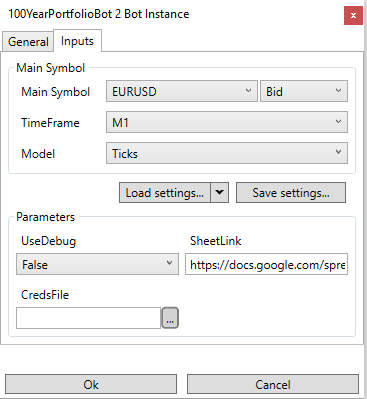
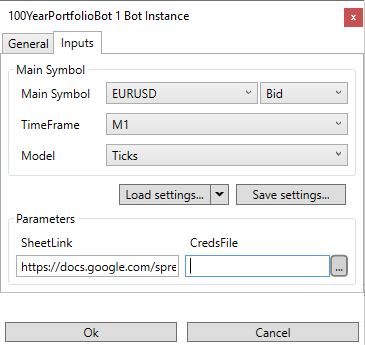
TTALGO-2025: Readme file has been uploaded

Changed region(s): [[0.0, 0.0, 1.0, 1.0], [0.0603, 0.3478, 0.211, 0.4058], [0.0603, 0.4348, 0.1507, 0.4638]]

diff --git a/100YearPortfolio/Symbols/MarketSymbol.cs b/100YearPortfolio/Symbols/MarketSymbol.cs
@@ -44,6 +44,8 @@ namespace _100YearPortfolio
 
         private double ActualMoney => _bot.CalculationBalance * Percent;
 
+        private double MinLotSize => Symbol.MinTradeVolume;
+
 
         public MarketSymbol(PortfolioBot bot, string aliasName, double percent, NoteSettings settings)
         {
@@ -57,8 +59,8 @@ namespace _100YearPortfolio
 
             if (!Symbol.IsNull)
             {
-                if (MaxLotSize.Lt(Symbol.MinTradeVolume))
-                    _error = $"{nameof(MaxLotSize)} less than MinTradeVolume = {Symbol.MinTradeVolume}!";
+                if (MaxLotSize.Lt(MinLotSize))
+                    _error = $"{nameof(MaxLotSize)} less than MinTradeVolume = {MinLotSize}!";
                 else
                     Symbol.Subscribe();
             }
@@ -81,7 +83,7 @@ namespace _100YearPortfolio
             var deltaMoney = ActualMoney - used;
             var deltaPercent = Percent - used / _bot.CalculationBalance;
 
-            var openVolume = CalculateOpenVolume(deltaMoney, deltaMoney > 0 ? bid : ask);
+            var openVolume = CalculateVolume(deltaMoney, deltaMoney > 0 ? bid : ask);
 
             _sb.Clear()
                .Append($"{Alias}{(Alias != OriginName ? $"({OriginName})" : "")} - ")
@@ -107,59 +109,35 @@ namespace _100YearPortfolio
             await OpenOrderChain(expectedMoney, expectedMoney > 0 ? bid : ask);
         }
 
-        private async Task OpenOrderChain(double money, double price)
+        private Task OpenOrderChain(double money, double price)
         {
-            var expectedVolume = Math.Min(CalculateOpenVolume(Math.Abs(money), price), MaxLotSize).Round(Symbol.TradeVolumeStep);
+            var expectedVolume = Math.Min(CalculateVolume(Math.Abs(money), price), MaxLotSize).Round(Symbol.TradeVolumeStep);
             var expectedSide = money.Gte(0.0) ? OrderSide.Buy : OrderSide.Sell;
 
-            _bot.Print($"{OriginName} expected volume = {expectedVolume:F8}, min volume = {Symbol.MinTradeVolume}");
-            _bot.Print($"{OriginName} try open = {expectedVolume.Gte(Symbol.MinTradeVolume)}");
+            _bot.Print($"{OriginName} expected volume = {expectedVolume:F8}, min volume = {MinLotSize}");
+            _bot.Print($"{OriginName} try open = {expectedVolume.Gte(MinLotSize)}");
 
-            if (expectedVolume.Gte(Symbol.MinTradeVolume))
-            {
-                expectedVolume = Math.Min(expectedVolume, Symbol.MaxTradeVolume);
-
-                var attempt = 0;
-
-                while (++attempt < MaxRejectAttempts)
-                {
-                    var res = await _bot.OpenOrderAsync(BuildRequest(expectedVolume, price, expectedSide));
-
-                    if (res.IsCompleted)
-                        break;
-                    else
-                        await _bot.Delay(DelayBetweenFailedRequests);
-                }
-            }
+            return expectedVolume.Gte(MinLotSize) ?
+                   ExecuteRequest(() => _bot.OpenOrderAsync(BuildRequest(expectedVolume, price, expectedSide))) :
+                   Task.CompletedTask;
         }
 
         private Task CancelOrderChain()
         {
-            async Task Cancel(Order order)
-            {
-                var attempt = 0;
-
-                while (++attempt < MaxRejectAttempts)
-                {
-                    var res = await _bot.CancelOrderAsync(order.Id);
-
-                    if (res.IsCompleted)
-                        return;
-                    else
-                        await _bot.Delay(DelayBetweenFailedRequests);
-                }
-            }
-
             var orders = Account.OrdersBySymbol(OriginName);
             var cancelTasks = new List<Task>(orders.Count);
 
             foreach (var order in orders)
-                cancelTasks.Add(Cancel(order));
+            {
+                var orderId = order.Id;
+
+                cancelTasks.Add(ExecuteRequest(() => _bot.CancelOrderAsync(orderId)));
+            }
 
             return Task.WhenAll(cancelTasks);
         }
 
-        private double CalculateOpenVolume(double money, double price)
+        private double CalculateVolume(double money, double price)
         {
             return money / (price * Symbol.ContractSize);
         }
@@ -179,11 +157,26 @@ namespace _100YearPortfolio
             return money * Symbol.ContractSize;
         }
 
+        private async Task ExecuteRequest(Func<Task<OrderCmdResult>> request)
+        {
+            var attempt = 0;
+
+            while (++attempt < MaxRejectAttempts)
+            {
+                var res = await request();
+
+                if (res.IsCompleted)
+                    return;
+                else
+                    await _bot.Delay(DelayBetweenFailedRequests);
+            }
+        }
+
         private OpenOrderRequest BuildRequest(double volume, double price, OrderSide side)
         {
             return OpenOrderRequest.Template.Create()
                                    .WithParams(OriginName, side, BaseType, volume, price, null)
-                                   .WithExpiration(_bot.UtcNow.AddHours(_bot.Config.UpdateMinutes + 1))
+                                   .WithExpiration(_bot.UtcNow.AddMinutes(_bot.Config.UpdateMinutes + 1))
                                    .MakeRequest();
         }
     }

diff --git a/100YearPortfolio/Clients/HttpSheetClient.cs b/100YearPortfolio/Clients/HttpSheetClient.cs
@@ -21,7 +21,14 @@ namespace _100YearPortfolio.Clients
             {
                 using var reader = response.Content.ReadAsStream();
 
-                _book = new XLWorkbook(reader);
+                try
+                {
+                    _book = new XLWorkbook(reader);
+                }
+                catch
+                {
+                    throw new Exception("Can't parse file data. Please check the link permissions.");
+                }
             }
         }
 

diff --git a/100YearPortfolio/Portfolio/PortfolioReader.cs b/100YearPortfolio/Portfolio/PortfolioReader.cs
@@ -6,7 +6,7 @@ namespace _100YearPortfolio
 {
     internal sealed class PortfolioReader
     {
-        private const string SymbolNameHeader = "Symbol";
+        private const string SymbolNameHeader = "Name";
         private const string PercentNameHeader = "Distribution";
         private const string MaxLotSizeHeader = "MaxLotSize";
         private const string OriginSymbolHeader = "Symbol";

diff --git a/100YearPortfolio/README.md b/100YearPortfolio/README.md
@@ -15,6 +15,7 @@ Template for Google Sheet Configuration is here (ссылка)
 
 Guide how to create Google Sheet and setup it is here (ссылка)
 
+If you want to use all features you need to create test google account. Guide you can find here (ссылка).
 
 ## Connect to Configuration sheet
 First of all you need to create a connection to Configuration before running a bot.
@@ -25,13 +26,10 @@ Setup window looks like this:
 
 ### Parameters
 
-#### **IsDebug**
-Defines whether the bot will do specific actions(for ex. additional logging) which are not required during normal usage. Bool parameter. Possible values: true or false.
-
 #### **SheetLink**
 This is link to your Configuration sheet. String parameter.
 
-#### **CredsFile**
+#### **CredsFile (optional)**
 Path to credentials file on your computer. It is nessesary for update *Status* page on Configuration sheet in real time mode. (for more information read here (ссылка)). String parameter.
 
 
@@ -43,62 +41,67 @@ The main settings responsible for a bot logic.
 ### Parameters
 
 #### **Once Per N min**
-This is a time after whitch a bot recalculates orders. Integer parameter. Should be greater than 0.
-
-#### **Status Update Timeout (sec)**
-This is a time after whitch a bot refreshes *Status*. Integer parameter. Should be greater than 0.
+A time after which a bot recalculates orders. Integer parameter. Should be greater than 0.
 
 #### **Balance Type**
 Specifies what is the balance for percentage calculation. Enum parameter. Possible values: Balance or Equity.
 
 #### **Equity Min Lvl**
-Protection against critical loss of money. Specifies the maximum possible change in equity as a percentage of a last starting point. Double percent parameter (can be written as 10 or 10%).
+Protection against critical loss of money. Specifies the maximum possible change in equity as a percentage of a last starting point. Double percent parameter (must end with %).
 
 #### **Equity Update Time (sec)**
 Protection against critical loss of money. Specifies a period of time which the starting point of equity will be updated. Integer parameter. Should be greater than 1.
 
-#### **Default Max Lots Sum**
-Default maximum volume amount that can be opened by Symbol. Double value. Should be greater than 0.
+#### **Status Update Timeout (sec) (optional)**
+A time after which a bot refreshes *Status*. Integer parameter. Should be greater than 0. Default value is 60 sec.
+
 
 
 ## Portfolio page
 
-Current page consists stock distribution and has 3 columns: Symbol, Distribution, MaxLostSum.
+Current page consists stock distribution and has 3 columns: Name and Distribution. Also Name column can have Notes with additional settings.
+
+
+### Main settings
 
 ![Portfolio Page](screens/PortfolioPage.png)
 
-### Parameters
-
-#### **Symbol**
-A name of the symbol, which will be used to open orders and positions. String value.
+#### **Name**
+A name of the symbol, which will be used to open orders. String value.
 
 #### **Distribution**
-A percentage of money from the account balance for opening orders. Double percent parameter (can be written as 10 or 10%). If value is positive value than positions side is Buy else Sell. **Total sum absolute values of column should be less than 100%**
+A percentage of money from the account balance for opening orders. Double percent parameter (must end with %). If value is positive value than positions side is Buy else Sell. **Total sum absolute values of column should be less than 100%**
 
-#### **MaxLotsSum**
-A maximum volume amount that can be opened by Symbol. Double value. If value isn't specified the **Default Max Lots Sum** will be applied. Should be greater than 0.
+### Additional settings (optional, **available only with cred file**)
 
-## **Filling rules**
+![Portfolio Page](screens/NoteSettings.png)
+
+Additional parameters should be written as Note for the first cell.
+
+#### **Symbol**
+This is the symbol name on a server side. Used to open orders. If not specified the value **Name** is used by default. String value.
+
+#### **MaxLotSize**
+Upper limit for a order volume. Positive double value. Default value is  **Symbol.MaxTradeVolume**
+
+## Filling rules
 - The order of records isn't important
 - Page might consists blank records for readable
 - Property names aren't allowed to be change
-- Please, check that format number is Plain Text for document. Otherwise numbers with percentages and points will be read incorrectly.
-
-![Plain Text](screens/Plain%20text.png)
 
 ## Algorithm
 
 1. The bot will calculate the desired stock number for each symbol using the current **Balance Type**.
-2. For each symbol calculate delta = DesiredStockNumber - ActualStockNumber this is stock for desired order
-3. If delta is positive value then desired order side is Buy else Sell.
-4. Ignore symbol if volume of desired order will be less then **Symbol.MinTradeAmount**
-5. Ignore symbol if total volumes sum by symbol greater than **MaxLotsSum** or **Symbol.MaxTradeAmount**
-6. If total sum volumes by symbol greater then **MaxLotsSum** then all limits will be cancaled
-7. Open orders while actual orders volume by symbol less than desired volume
-8. Orders will be opened with Experation = **Once Per N min** + 1
+2. All previous orders will be canceled (if they exist)
+3. For each symbol calculate **Delta money** = DesiredStockNumber - ActualStockNumber this is stock for desired order
+4. If **Delta money** is positive value then desired order side is Buy else Sell.
+5. The **Expected volume** is calculated using **Delta money**
+4. Ignore symbol if **Expected volume** < **Symbol.MinTradeVolume**
+5. Trying to open order with a volume = Min(**Expected volume**, **Symbol.MinTradeVolume**, **MaxLotSize**)
+8. All orders are opened with Experation = **Once Per N min** + 1
 
-## Status page
-This page is allowed only if you connected with a credential file and consists current information about account and orders.
+## Status page (available only with cred file)
+This page consists current information about account and orders.
 
 ![Status Page](screens/StatusPage.png)
 
@@ -106,10 +109,12 @@ The page consists of:
 - Current time (UTC format)
 - Read config
 - Current account information (Balance and Equity)
+- Information about unexpected positions and orders (if they exist)
 - Information about Portfolio symbols:
-    - Desired symbol percentage if it is exist
+    - Symbol name and alias (if exists)
+    - Desired symbol percentage
     - Current delta in percentage and lots
-    - Current symbol rate (available only in Debug mode))
+    - Current symbol rate
 - Current equity starting point and percentage change since last resave
 - Time until next resave starting point of equity
 - Time until next orders recalculations
